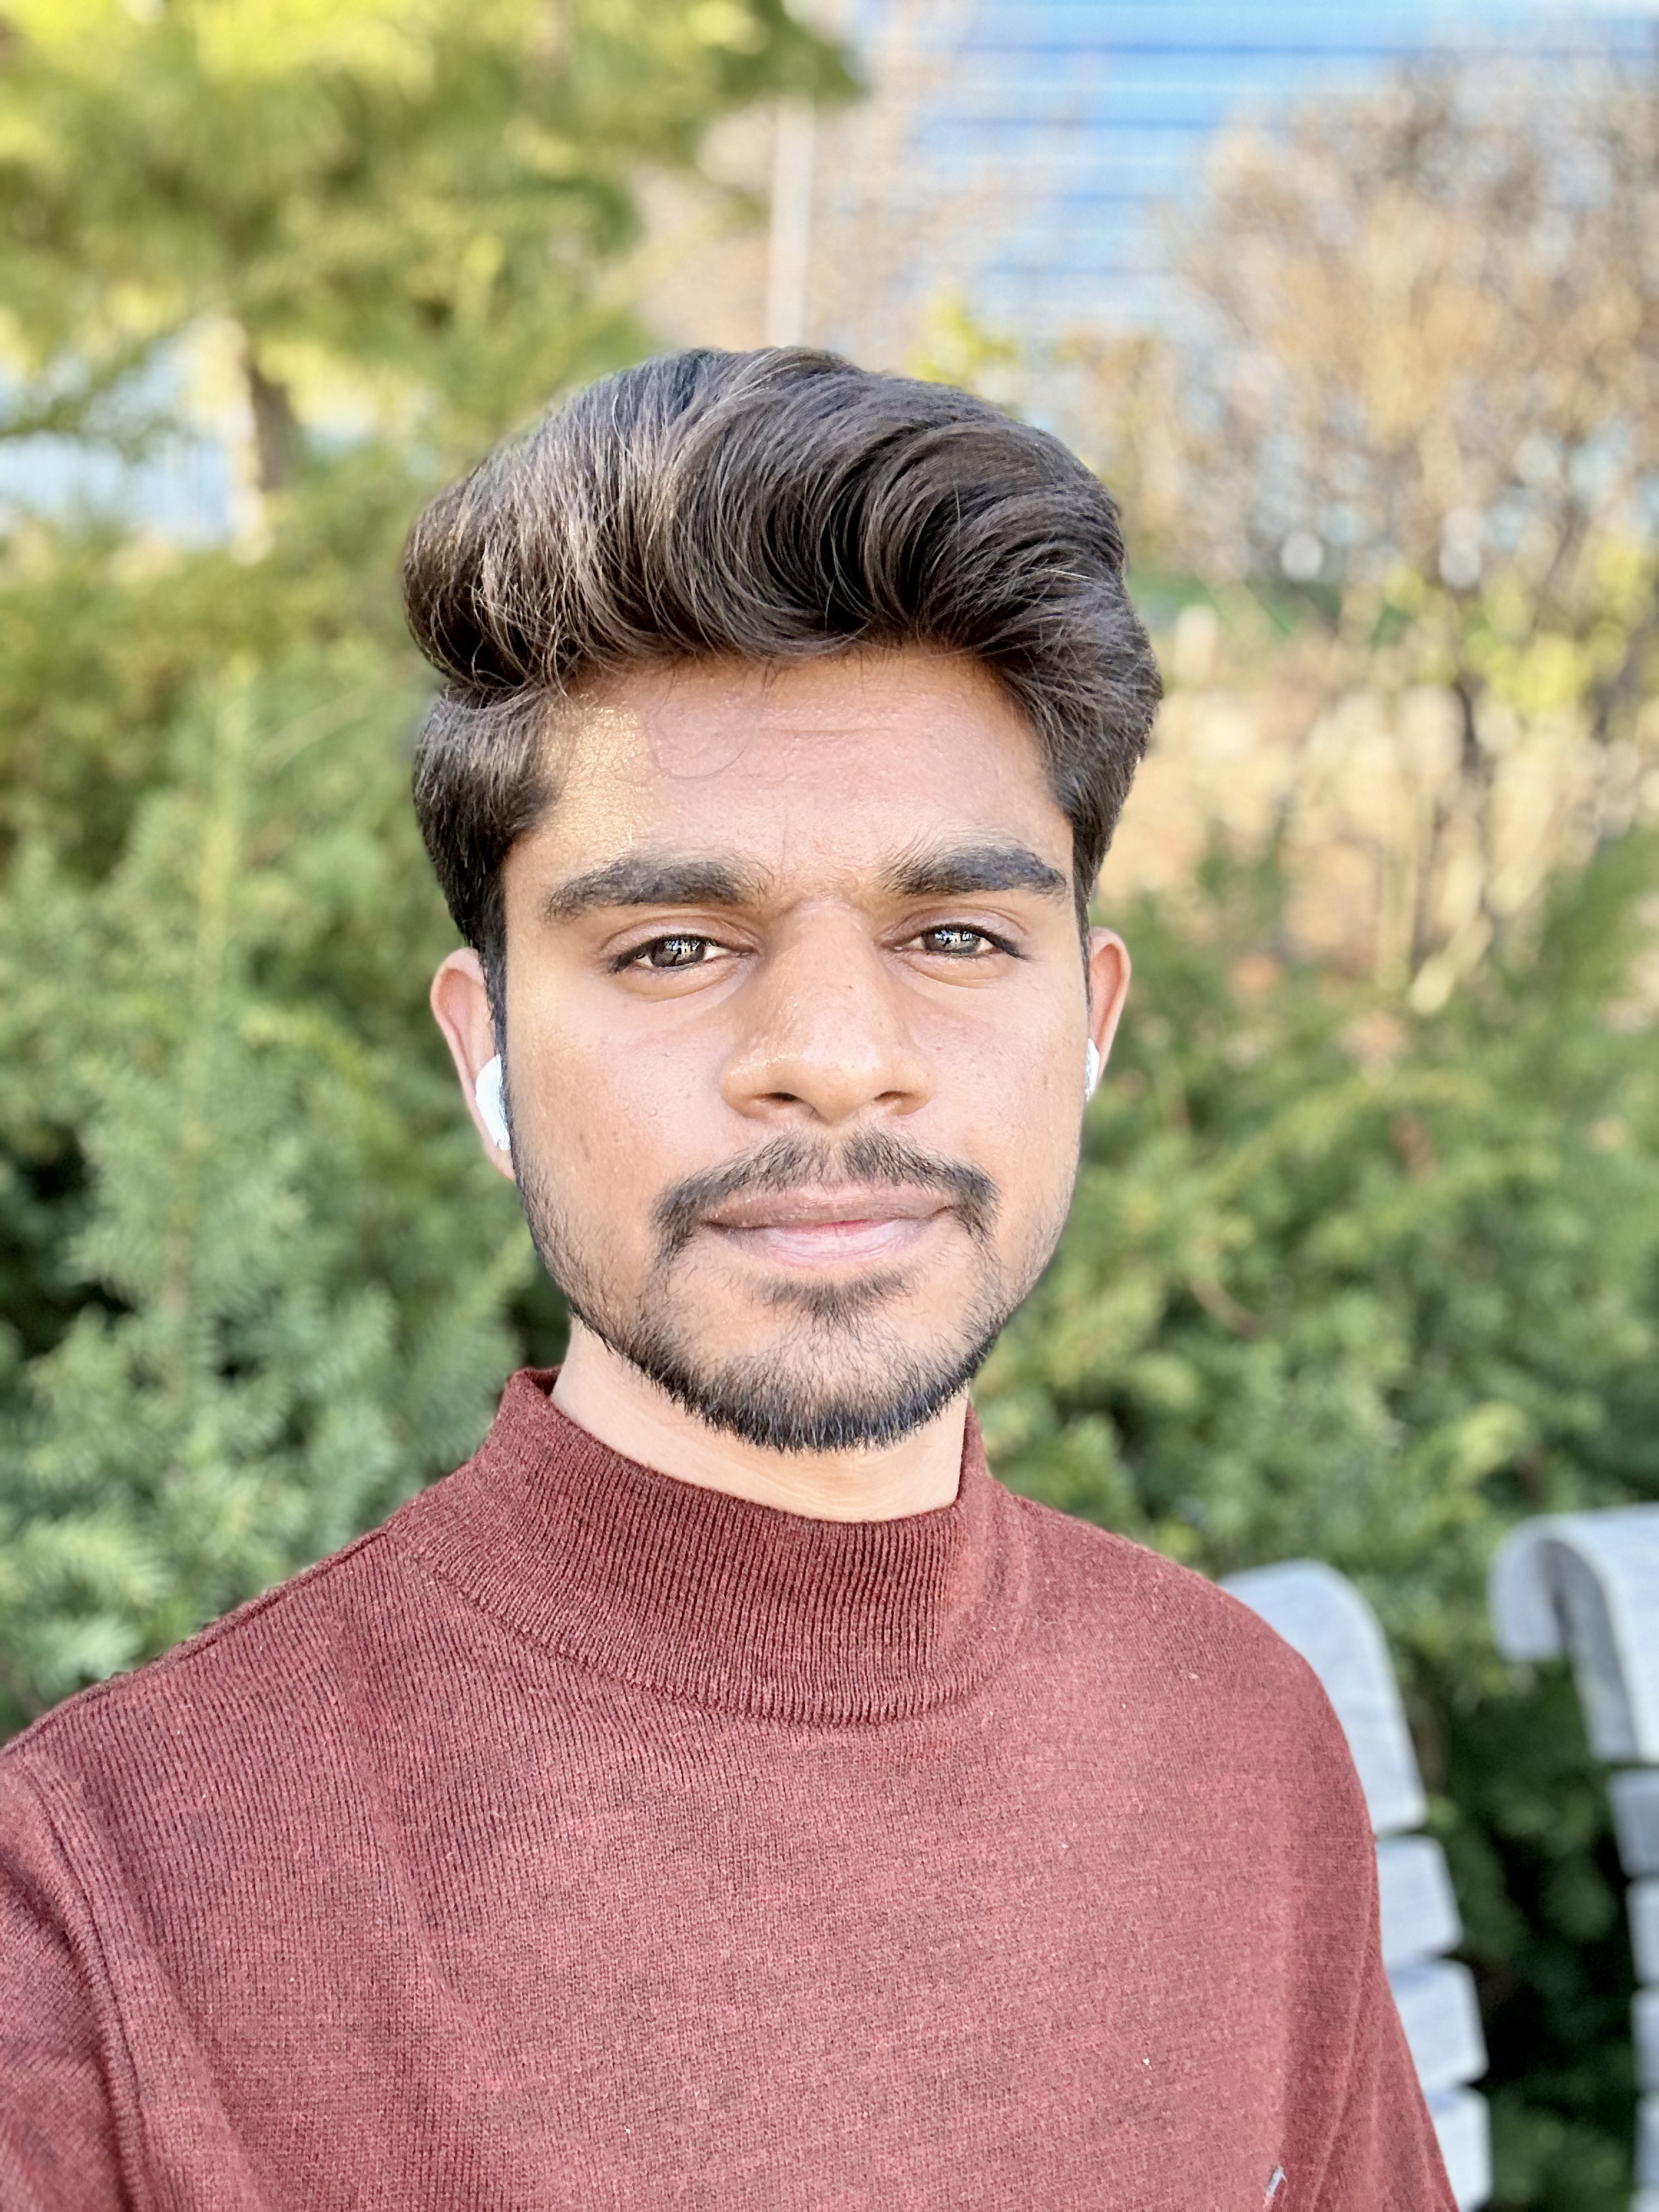
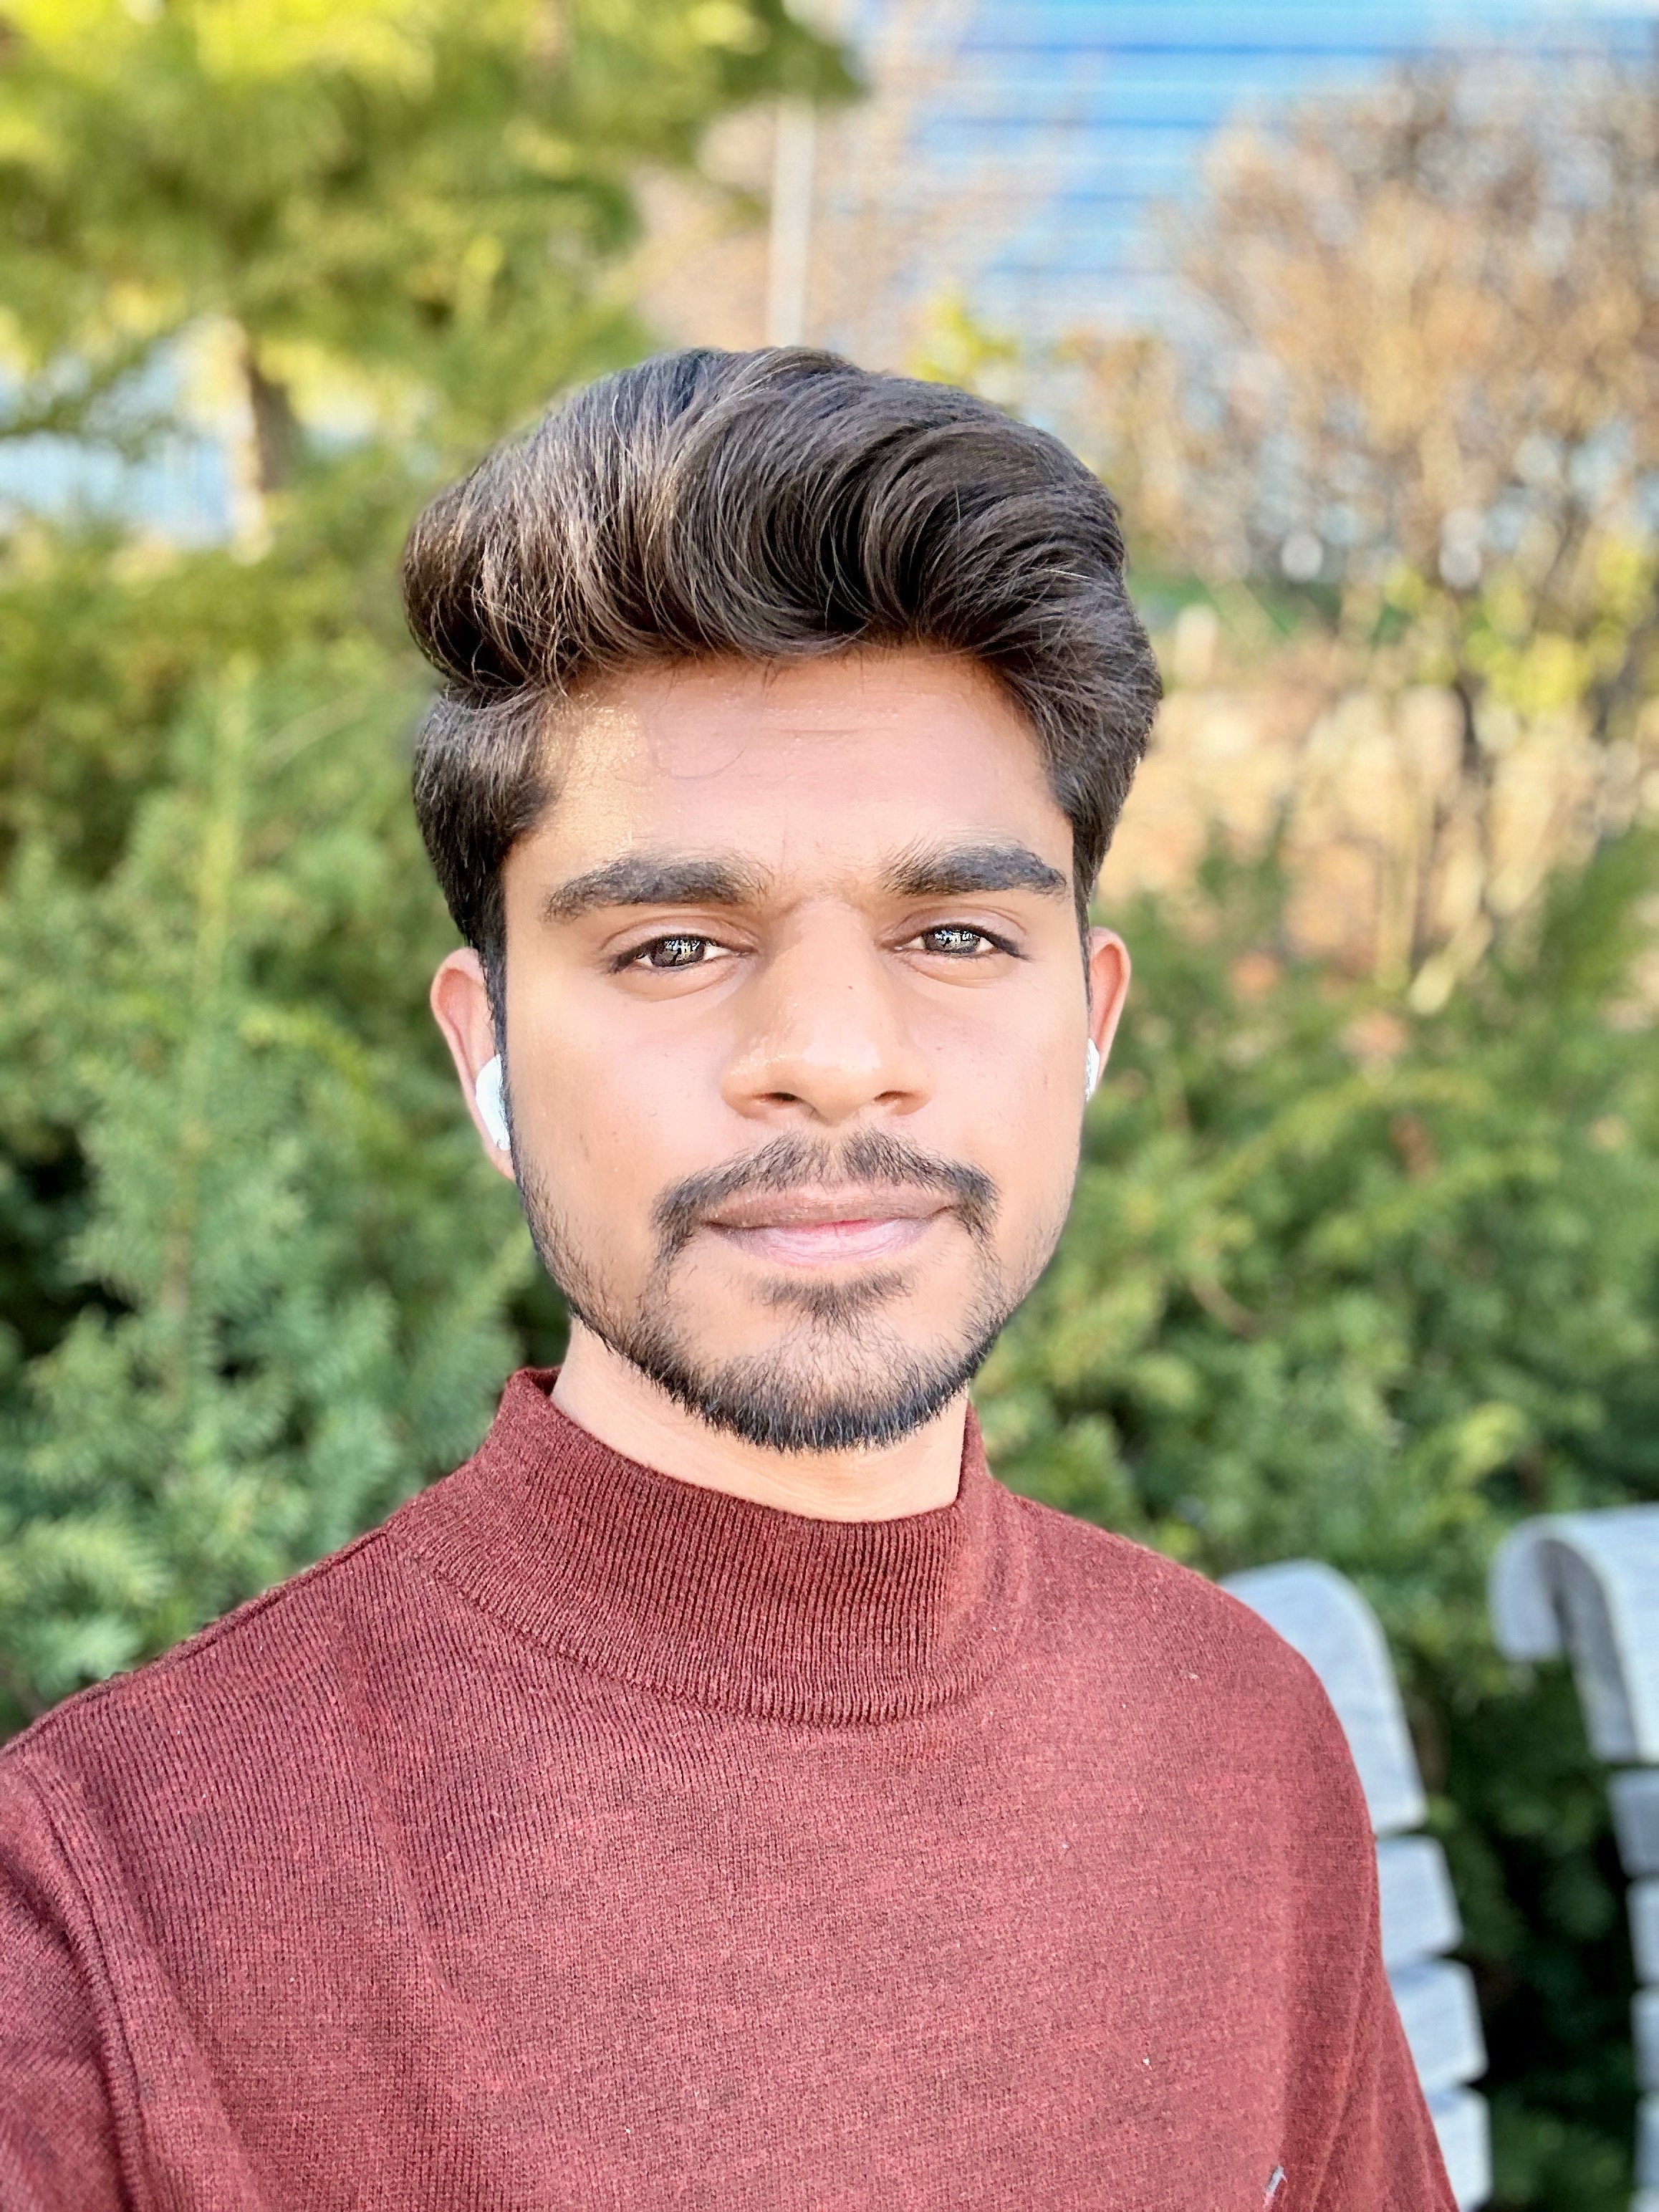
Update resume buttons to open in new tab for preview

diff --git a/src/data/content.js b/src/data/content.js
@@ -8,12 +8,12 @@ export const profile = {
   initials: 'TD',
   role: 'Full-Stack Software Engineer',
   focus: ['AI / ML Integration', 'Distributed Systems'],
-  location: 'San Francisco Bay Area, CA',
+  location: 'United States',
   status: 'Open to Senior / Staff roles',
   email: '[email redacted]',
   phone: '+1 (408) 652-9472',
   tagline:
-    'I build AI products and event-driven systems that stay calm under load — and ship them at Walmart scale.',
+    'I build AI products and event-driven systems that stay calm under load and ship them at Walmart scale.',
   intro:
     'Full-stack engineer with 4+ years turning ambiguous product ideas into production systems that serve millions. Lately I live where AI meets distributed infrastructure: RAG and LLM features on top of resilient, observable, event-driven backends. I own features end to end, mentor the engineers around me, and move fast without leaving a mess.',
   links: [
@@ -141,8 +141,10 @@ export const timeline = [
 export const certifications = [
   'Google Professional Cloud Architect',
   'Google AI Essentials Specialization',
-  'IBM Generative AI Engineering Professional',
-  'Microsoft Full-Stack Developer Professional',
+  'AWS Certified Solutions Architect - Professional',
+  'Microsoft Generative AI Engineering Professional',
+  'Anthropic - Al Fluency Framework & Foundations',
+  'Anthropic - Claude code 101',
 ]
 
 // Tech words for the hero marquee

diff --git a/src/components/Contact.jsx b/src/components/Contact.jsx
@@ -76,7 +76,7 @@ export default function Contact() {
                 </a>
               ))}
               <a href={`tel:${profile.phone.replace(/[^+\d]/g, '')}`}>{profile.phone}</a>
-              <a href="/Tharun_Derangula_Fullstack_Resume.pdf" download>Resume ↓</a>
+              <a href="/Tharun_Derangula_Fullstack_Resume.pdf" target="_blank" rel="noopener noreferrer">Resume ↓</a>
             </div>
           </div>
         </div>

diff --git a/src/components/Hero.jsx b/src/components/Hero.jsx
@@ -115,7 +115,7 @@ export default function Hero({ ready }) {
               <p className="hero__tagline" style={{ visibility: 'hidden' }}>{profile.tagline}</p>
               <div className="hero__ctas" style={{ visibility: 'hidden' }}>
                 <a className="btn btn--solid" href="#experience"><span>View my work ↓</span></a>
-                <a className="btn btn--line" href="/Tharun_Derangula_Fullstack_Resume.pdf" download>
+                <a className="btn btn--line" href="/Tharun_Derangula_Fullstack_Resume.pdf" target="_blank" rel="noopener noreferrer">
                   <span>Download Resume</span>
                 </a>
                 <a className="btn btn--line" href={`mailto:${profile.email}`}><span>Email</span></a>